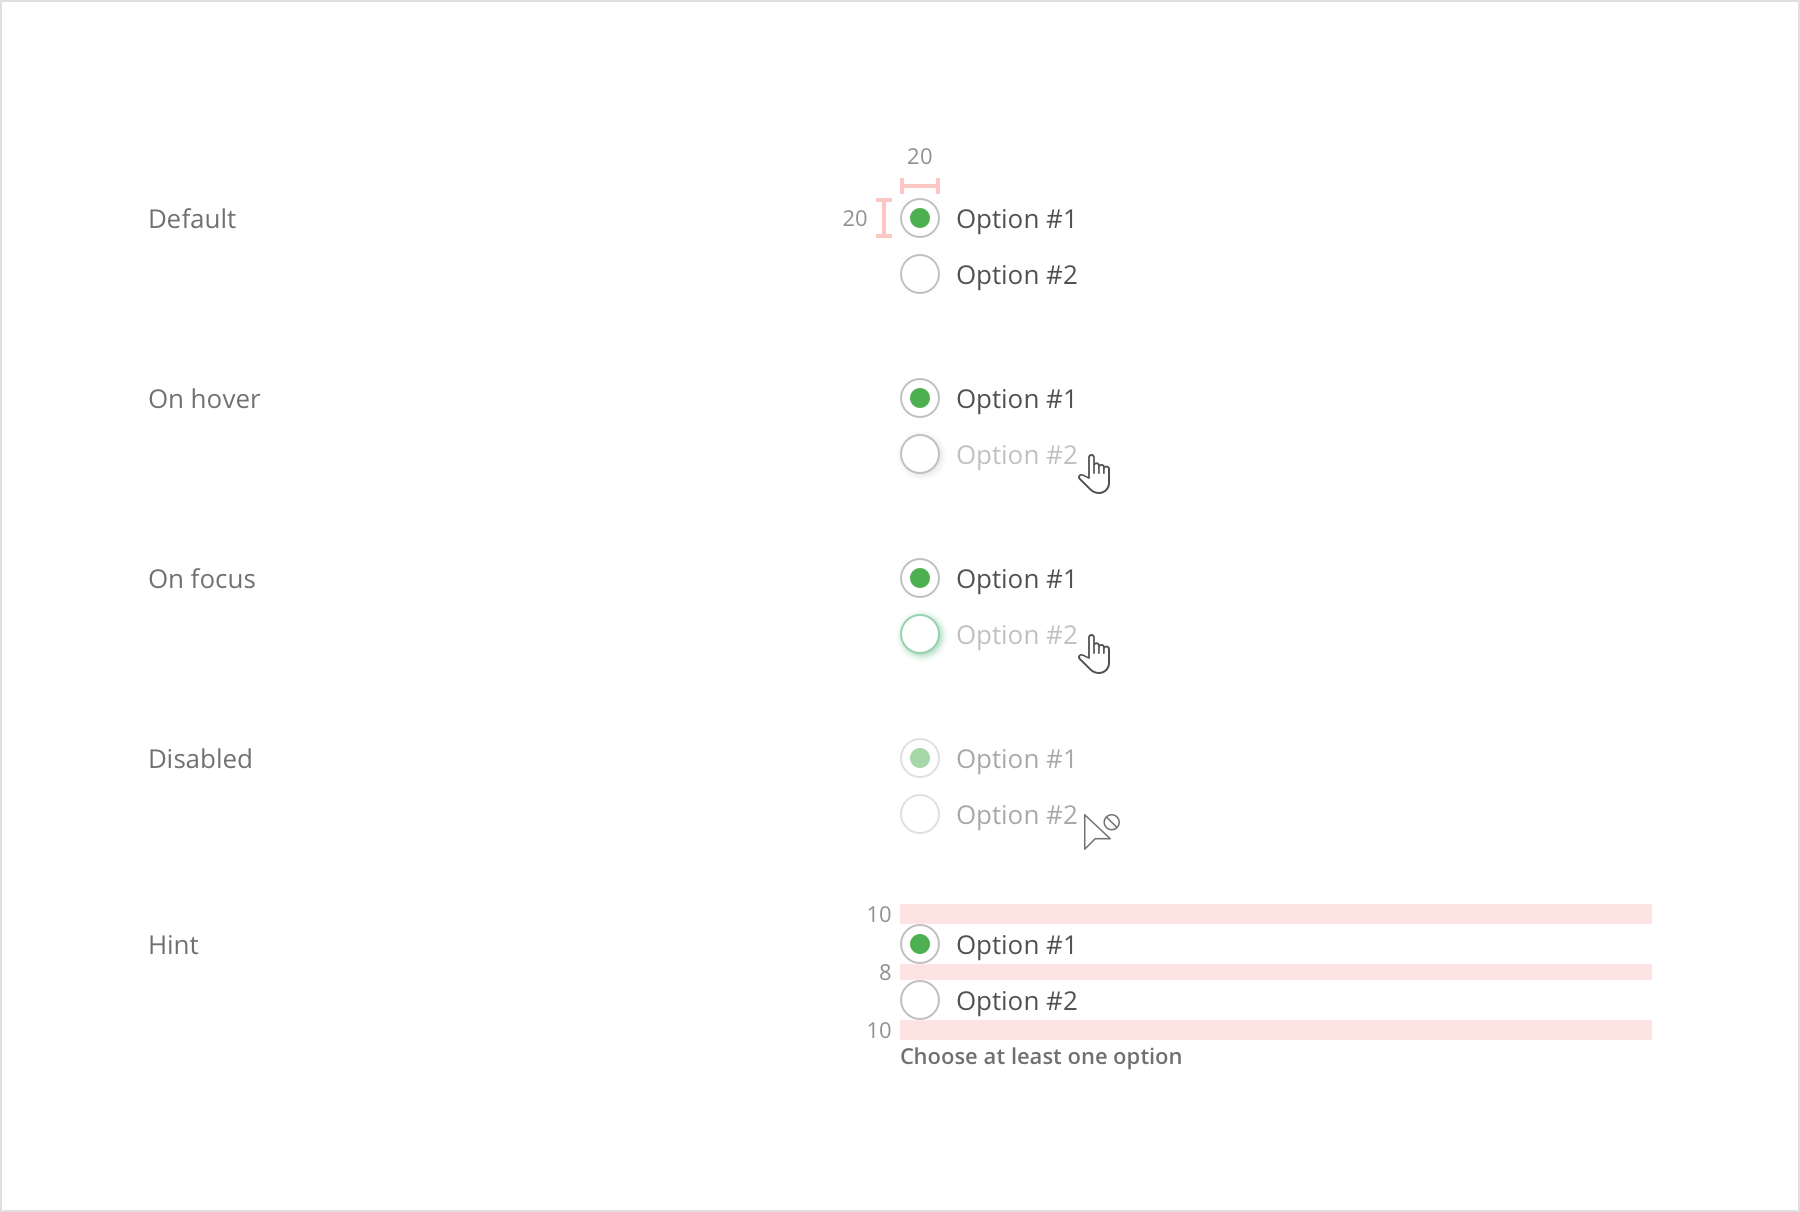
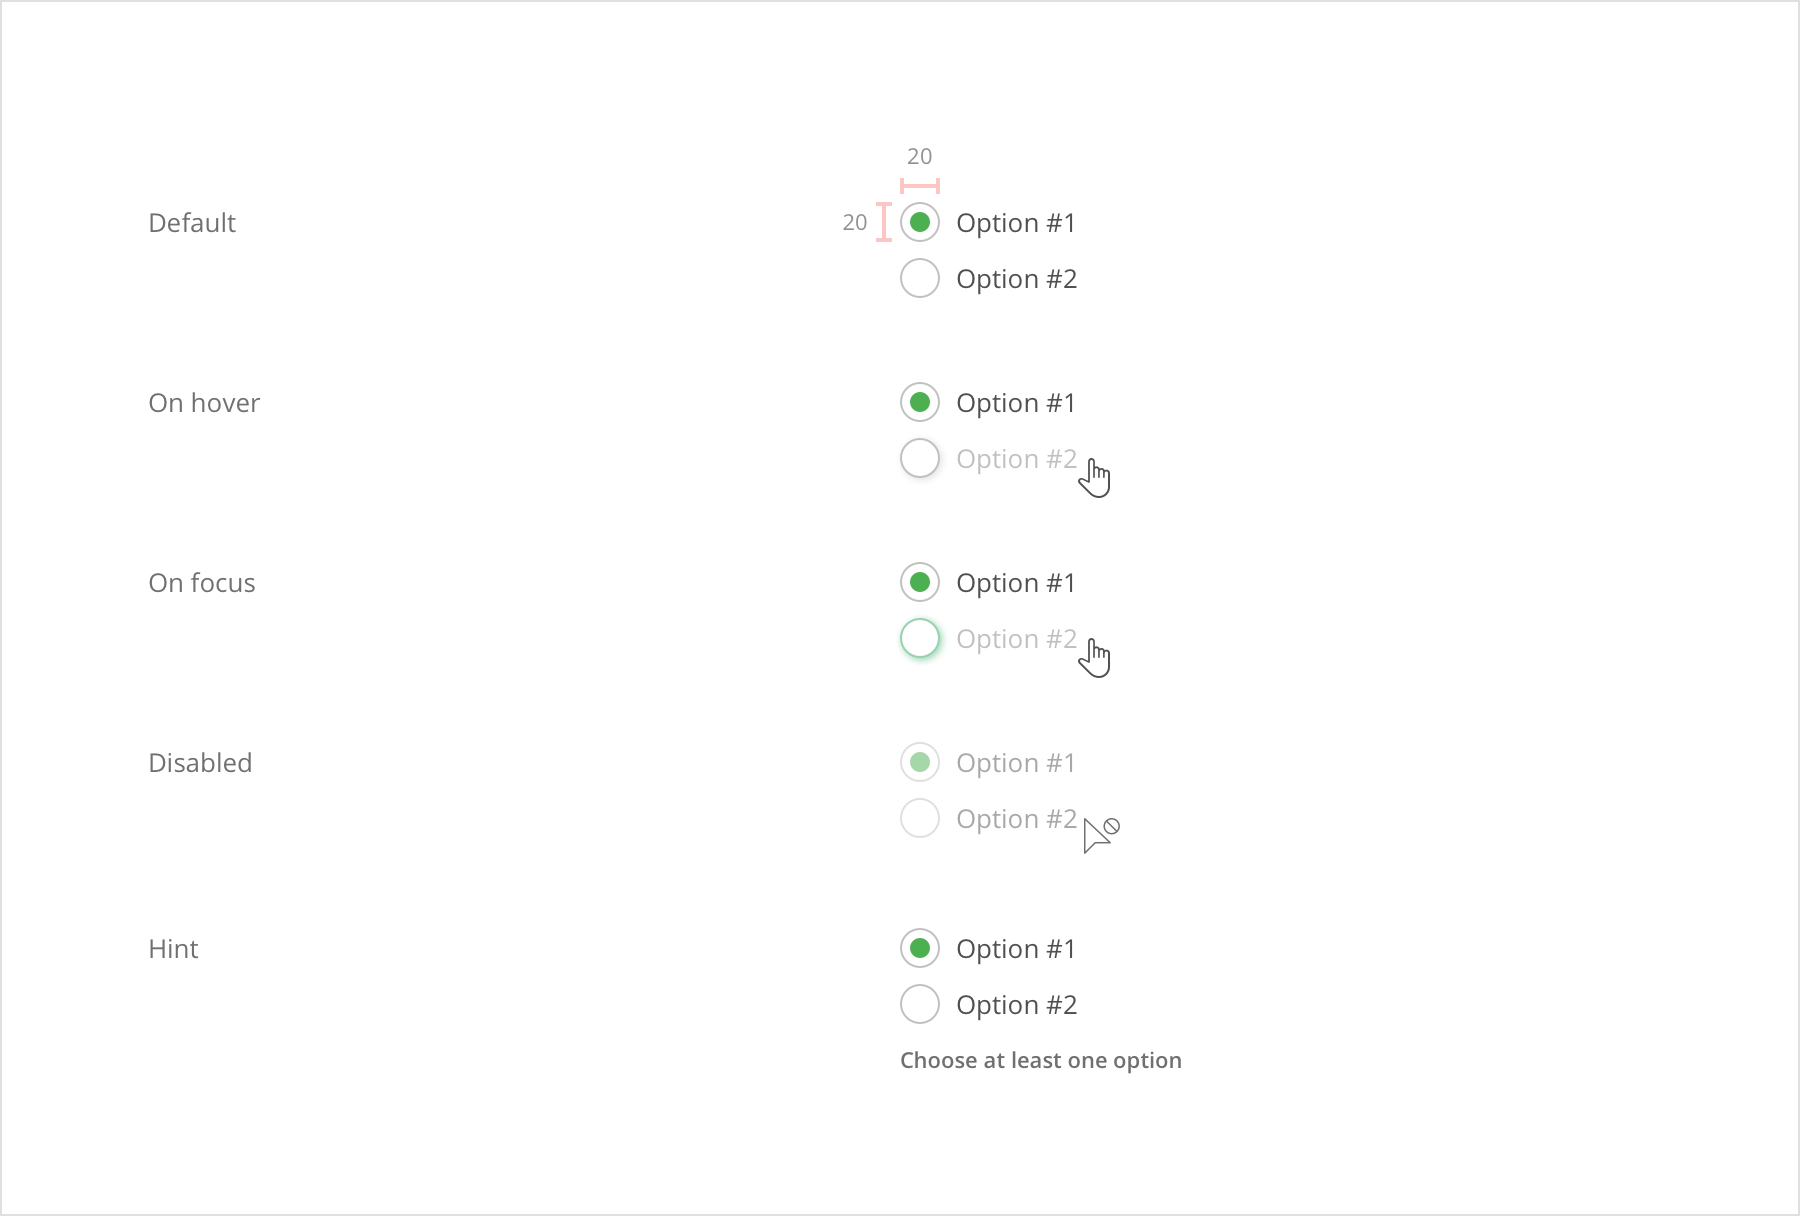
Updates atoms/radio-buttons.md
Auto commit by GitBook Editor

diff --git a/atoms/radio-buttons.md b/atoms/radio-buttons.md
@@ -1,6 +1,6 @@
 # Radio buttons
 
-Radio buttons are mostly used when there are multiple choices, but only one option can be selected. Radio buttons can be displayed as a Stand-alone and as a Sub-options. They have up to 5 states, including: default, on-hover, on-focus, disabled and hint.
+Radio buttons are mostly used when there are multiple choices, but only one option can be selected. Radio buttons can be displayed as a **Stand-alone** and as a **Sub-option**. They have up to 5 states, including: default, on-hover, on-focus, disabled and hint.
 
 **Note: **All CSS shown is for guiding purposes, it's not absolute.
 
@@ -63,6 +63,8 @@ font-size: 11px;
 color: $B300;
 ```
 
+---
+
 ### Stand-alone
 
 * The first radio button in a Stand-alone group has a margin top of 10px.
@@ -70,7 +72,18 @@ color: $B300;
 
 ![](/assets/atoms/radio-buttons-stand-alone.png)
 
+### Sub-option
 
+* The top margin above the first Radio button in a Sub-option group is 8px.
+* The bottom margin below the last Radio button in a Sub-option group is 8px.
+* There is an "L" indicator before each Sub-option Radio button \(height: 8px, width: 12px, border: 2px\).
+
+![](/assets/atoms/radio-buttons-sub-options.png)
+
+```
+/* "L" Indicator */
+color: $S300;
+```
 
 
 
